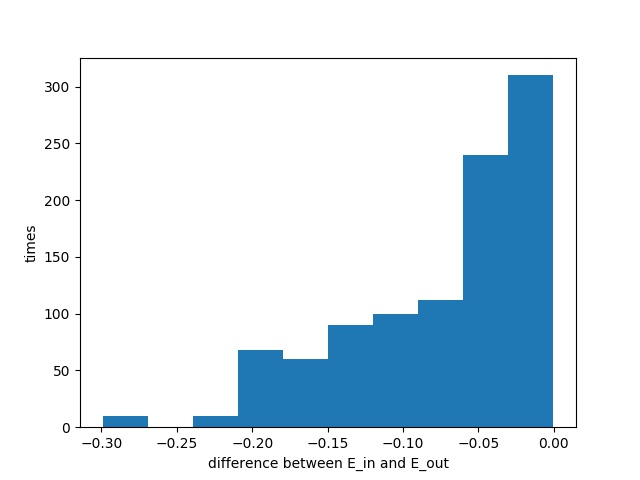
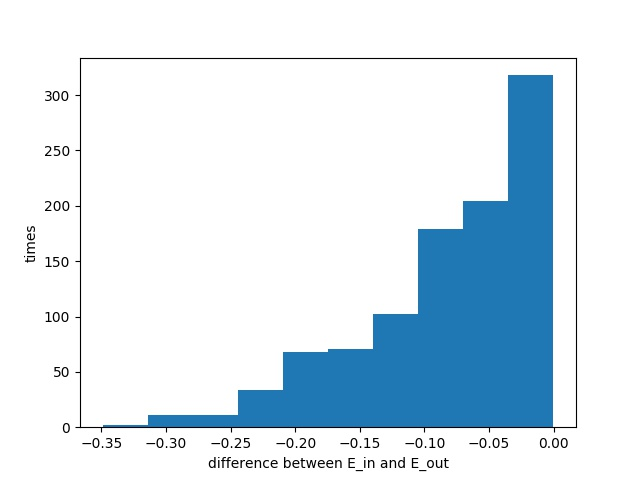
seed

diff --git a/Hw2/decision_stump.py b/Hw2/decision_stump.py
@@ -32,7 +32,7 @@ def error_out(s,theta):
     return 0.5 + 0.3* s *( abs(theta) -1 )
 
 def train(time,num):
-    
+    np.random.seed(time)
     x = generate_x(data_num=num)
     x = np.sort(x)
     
